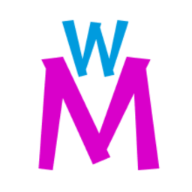
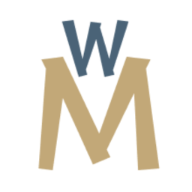
styling improvements

Changed region(s): [[0.1875, 0.0938, 0.8438, 0.9062]]

diff --git a/tailwind.config.js b/tailwind.config.js
@@ -5,8 +5,12 @@ const colors = {
   mediumgray: "#A8A8A8",
   charcoal: "#4A4A4A",
   black: "#1E1E1E",
-  primary: "#009BDE",
-  secondary: "#D900CA",
+  primary: "#4A6377",
+  primaryDark: "#2F4052",
+  primaryLight: "#A6B1C2",
+  secondary: "#C2A878",
+  secondaryDark: "#8B7351",
+  secondaryLight: "#E8D5B9",
   blue: "#8AA4C8", // Muted Blue
   blueDark: "#4F6B8C", // Darker variant for text
 
